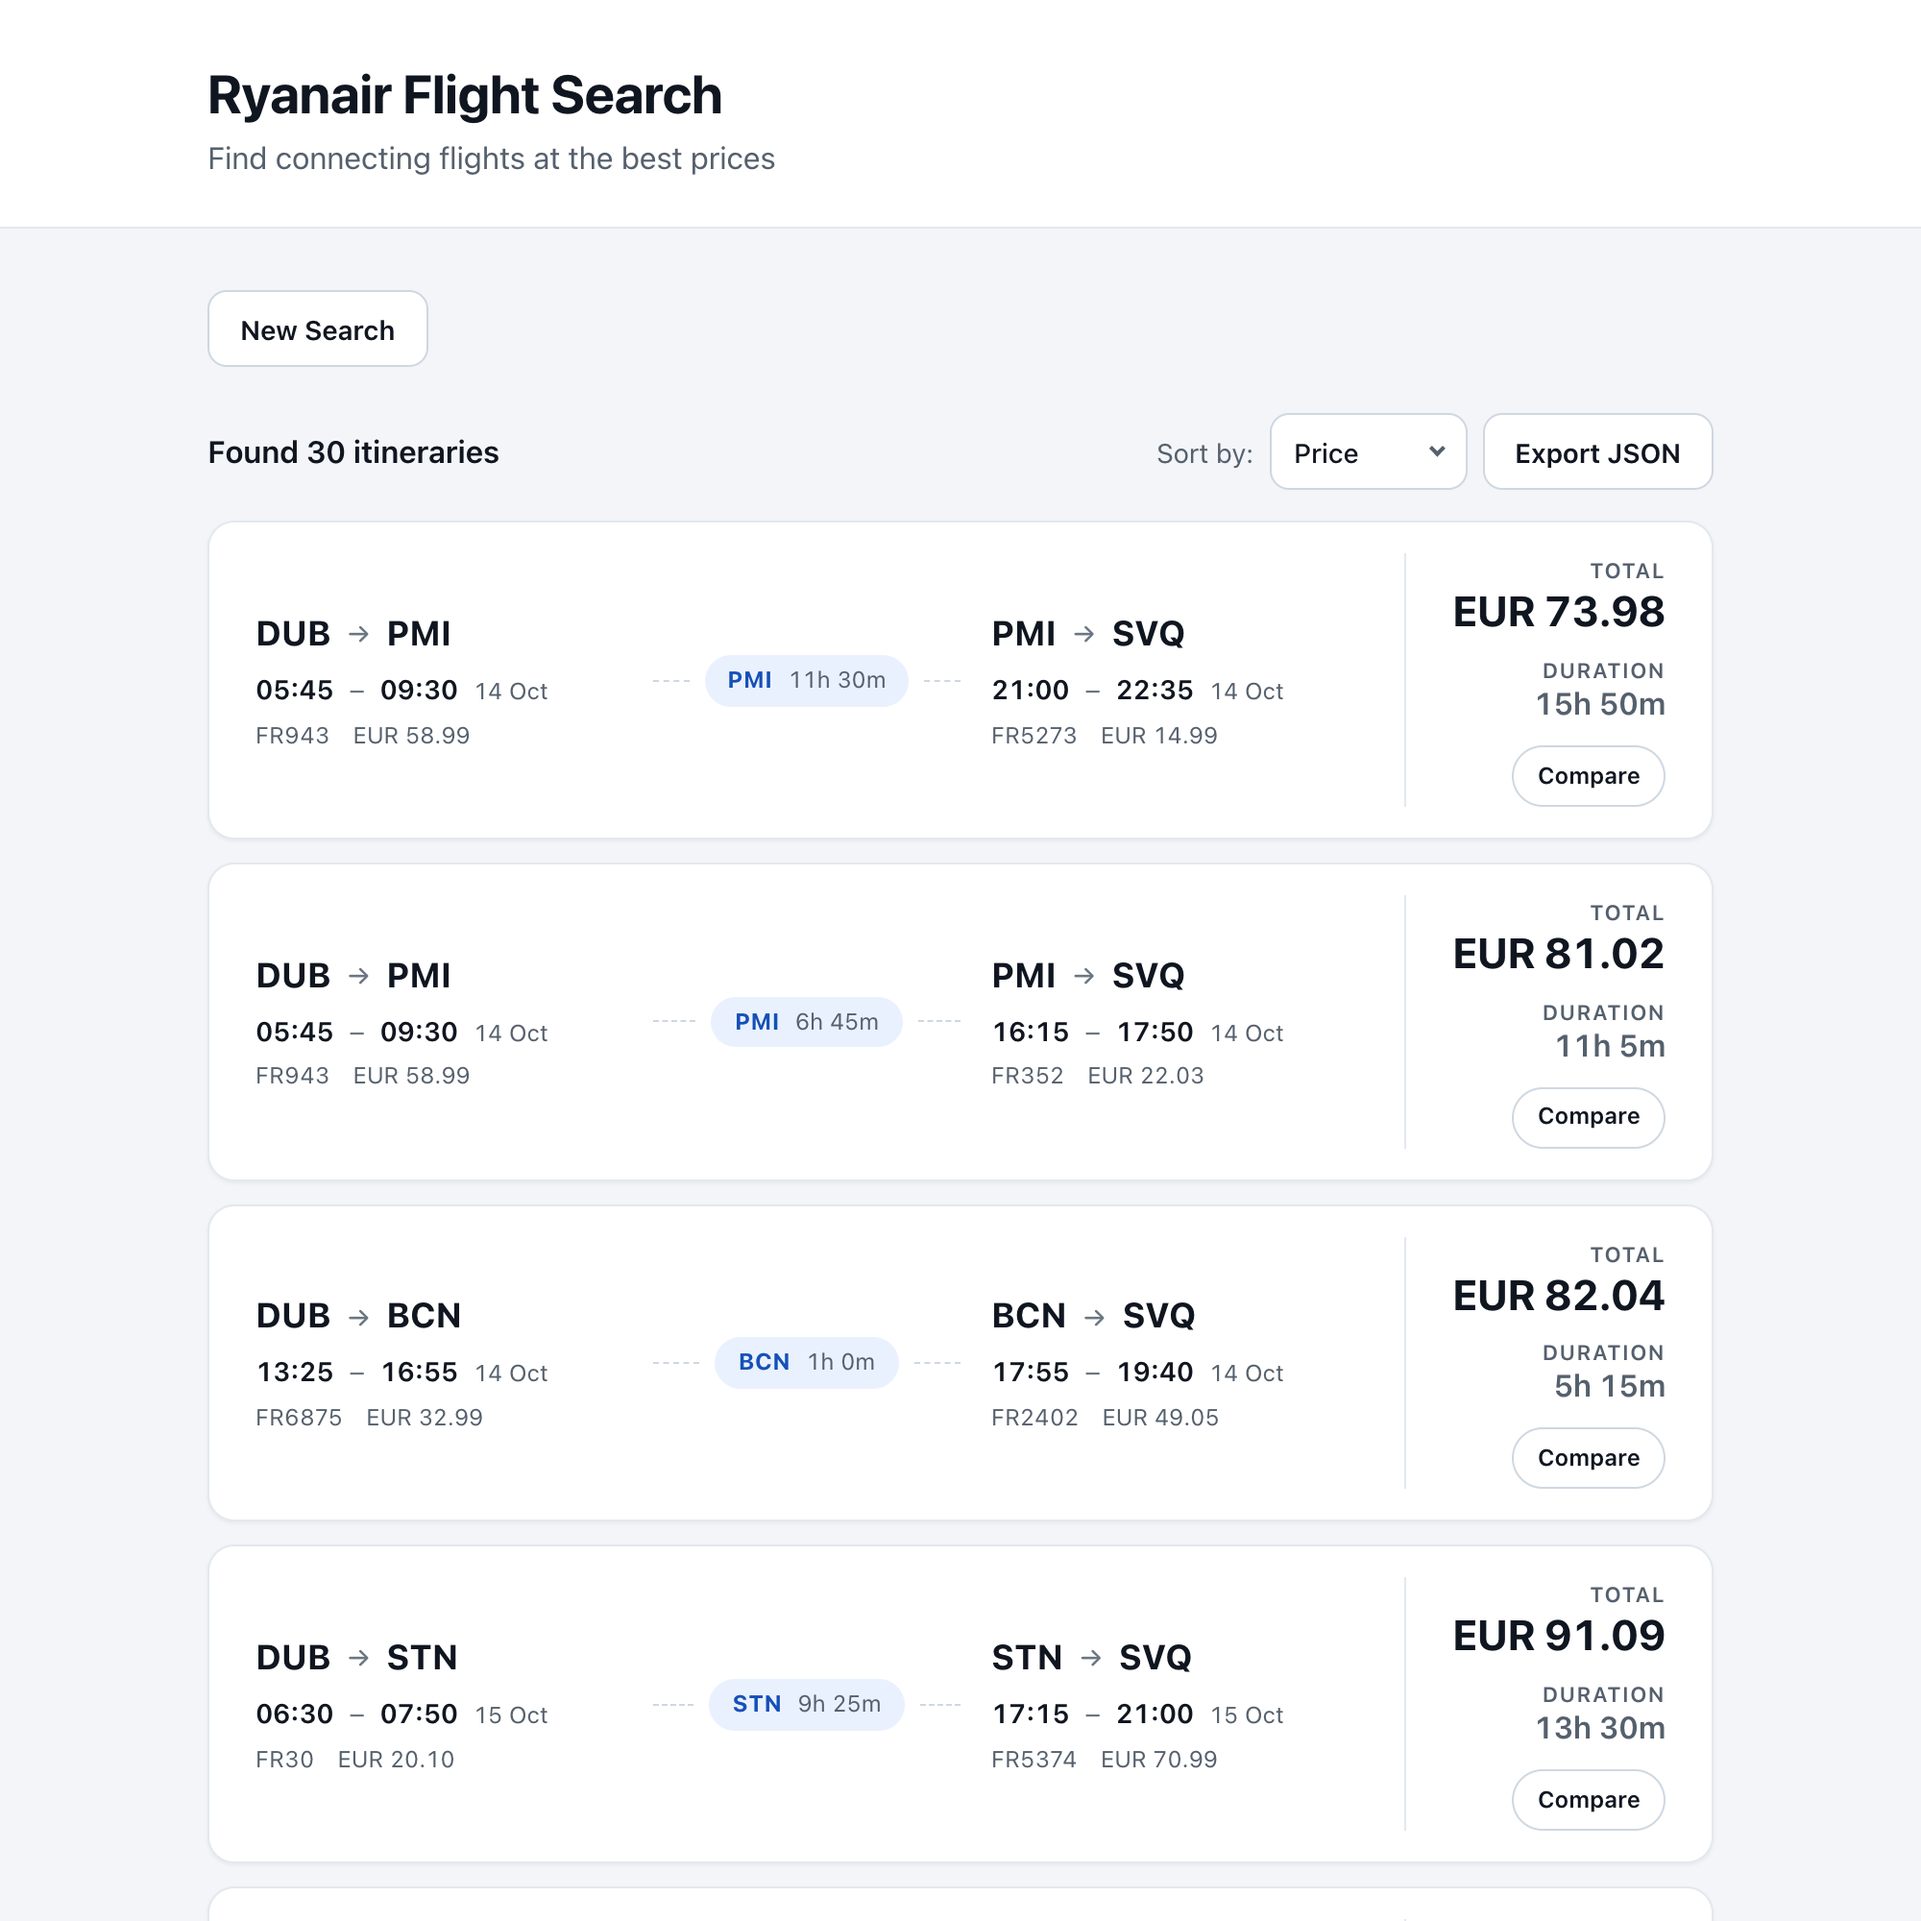
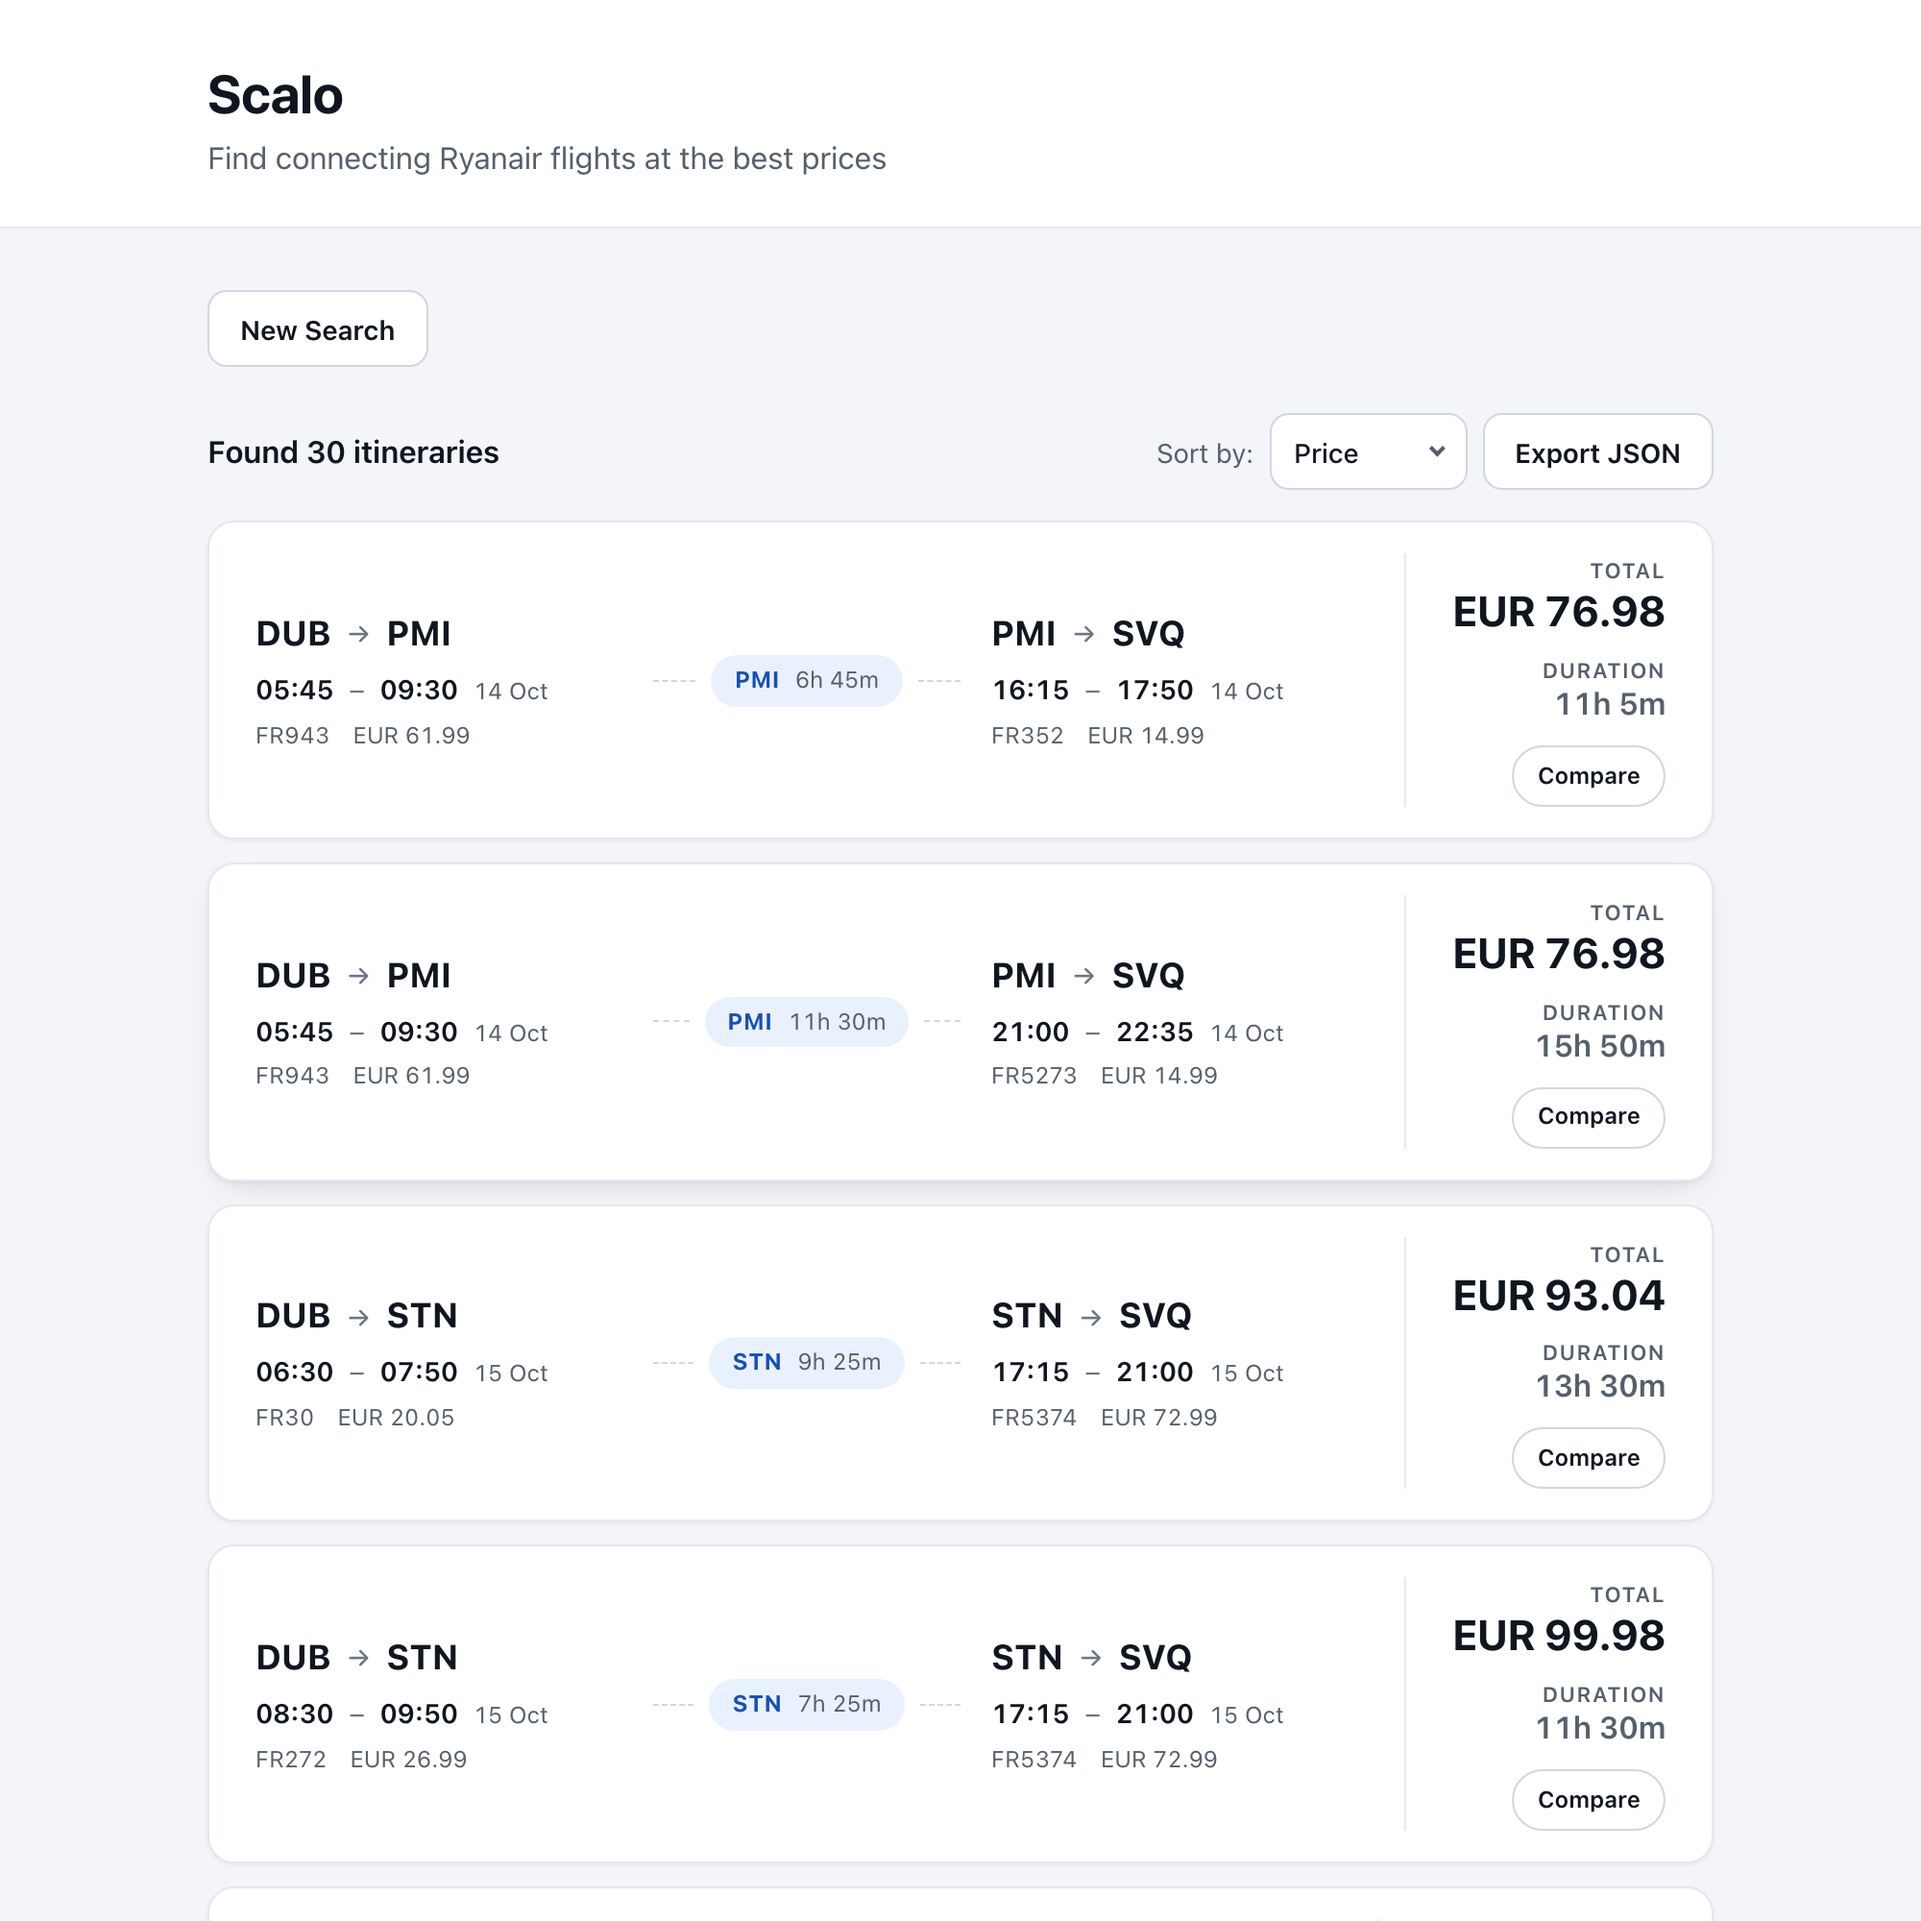
:memo: docs(readme): retake the web UI GIF and results still under the Scalo name (#6)
Both still showed the old "Ryanair Flight Search" header. Same search as
before (Dublin to Seville, 14 to 16 October, eight stopovers); fares have
moved, so the cheapest is now EUR 76.98 via Palma.

diff --git a/README.md b/README.md
@@ -12,7 +12,7 @@
 </p>
 
 <p align="center">
-  <img src="docs/assets/web-ui.gif" width="800" alt="The web UI searching Dublin to Seville: the form is filled in, a progress bar runs through eight connection airports, and ranked two-flight itineraries appear, cheapest first at EUR 73.98 via Palma.">
+  <img src="docs/assets/web-ui.gif" width="800" alt="The web UI searching Dublin to Seville: the form is filled in, a progress bar runs through eight connection airports, and ranked two-flight itineraries appear, cheapest first at EUR 76.98 via Palma.">
 </p>
 
 ## What it is
